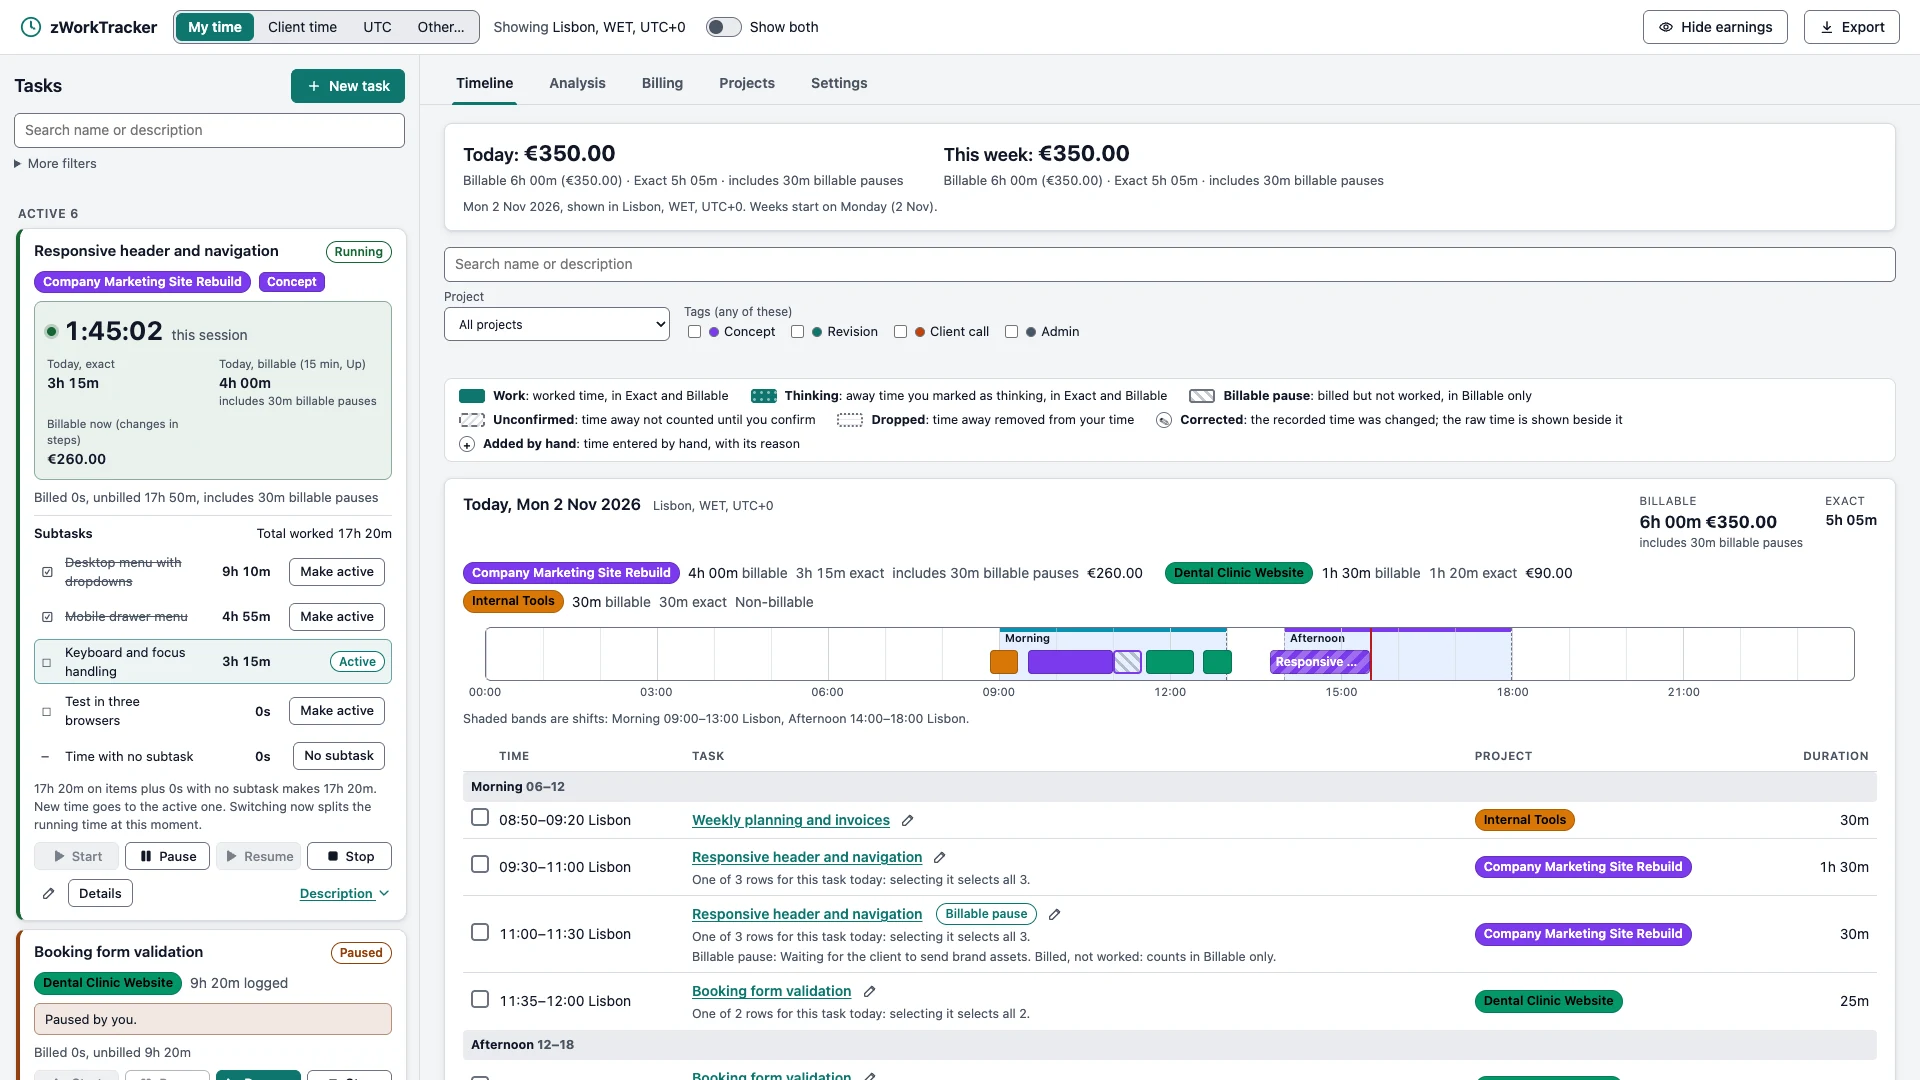
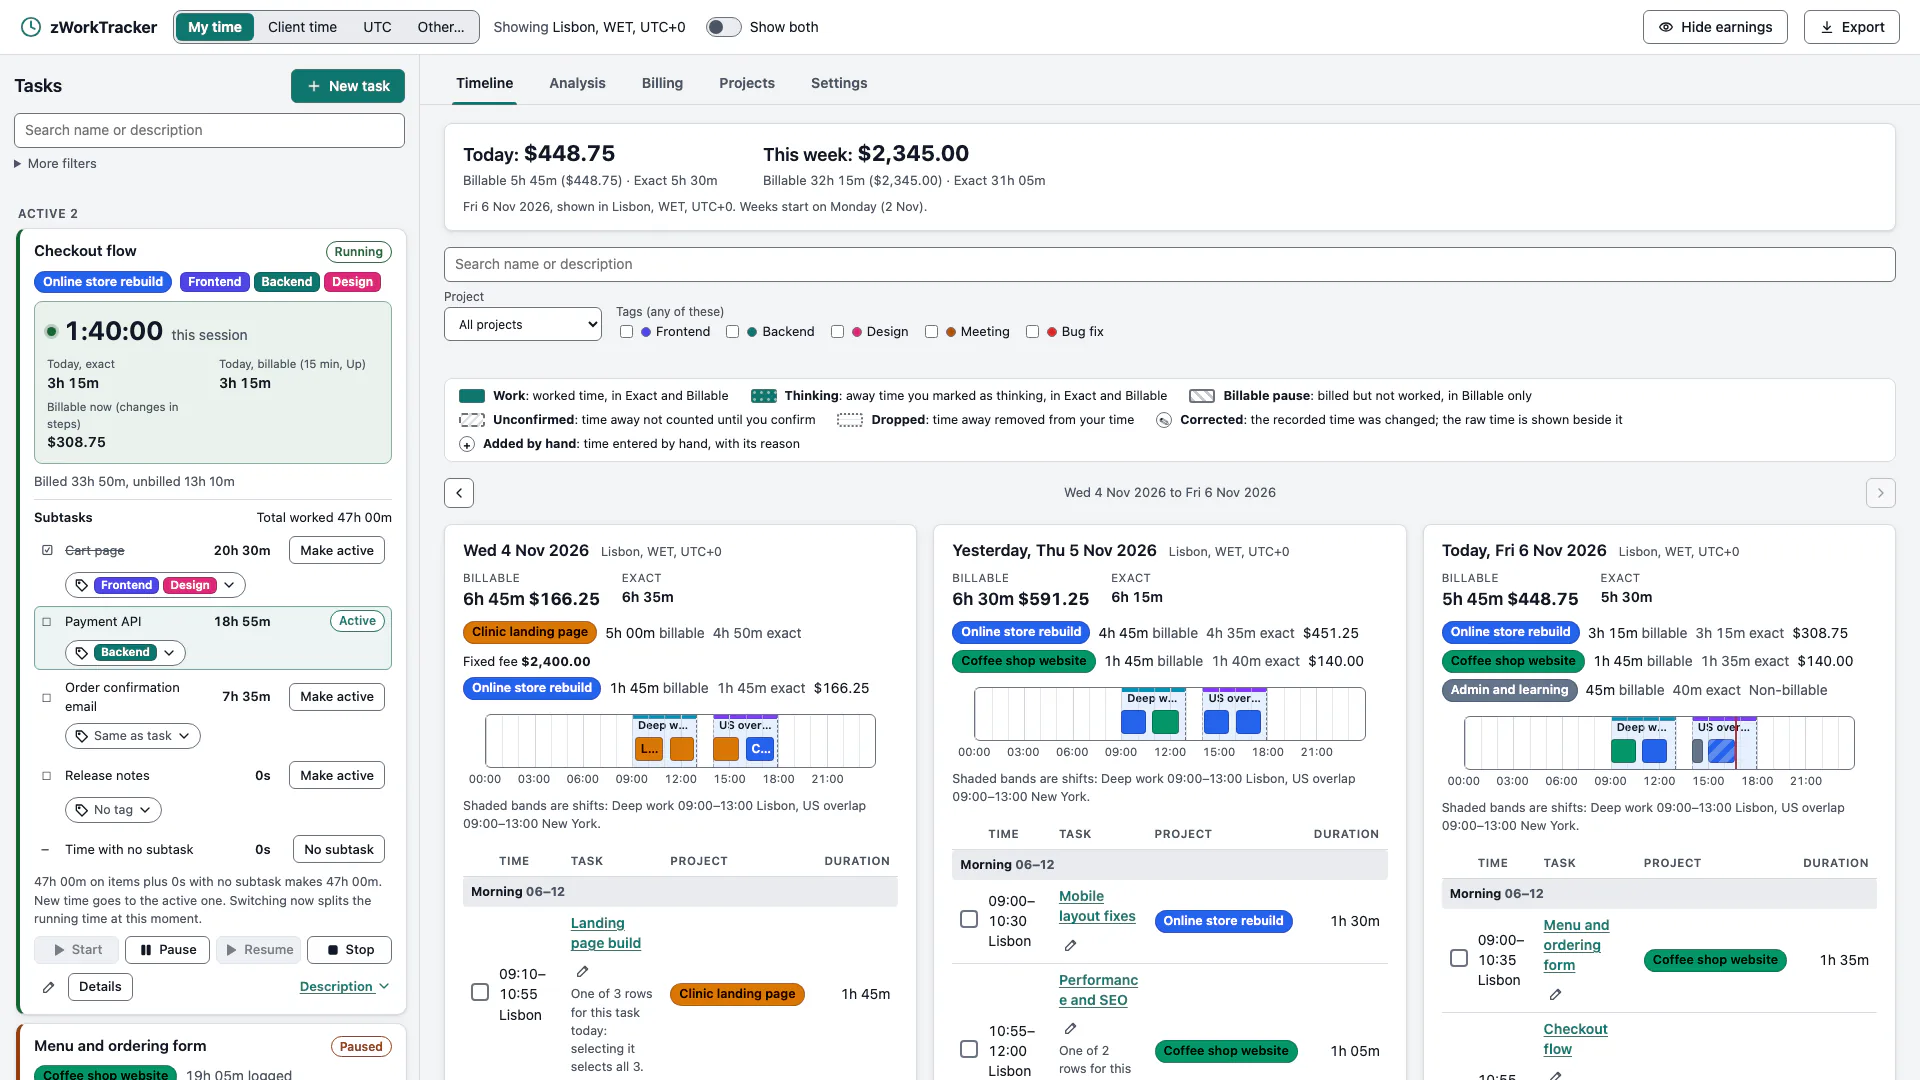
Docs: a tag taken off a task stays in the subtasks' lists, and 1.4.0 on the website
README, Tags of a subtask: the paragraph said that taking a tag off the task takes it off the subtasks' lists in the same save.
It now says what the core does since 413fb9c: a subtask only ever counts under tags its task has, so the tag drops out of its
subtasks at once and a subtask left with none of its own tags shows No tag; the lists are kept, so a tag put back on the task
returns to the subtasks that had it, and a change to the task's tags never undoes a choice made for a subtask. The guide on the
website does not state the old rule, so its text stays.

Website: the home page's "New in 1.3.2" line is now a 1.4.0 one (subtask tags, the Timeline's days side by side). The picture of
the Timeline, site/assets/timeline.webp (the home page and the guide), still showed one full-width day with no arrows and no tags
button on a subtask. It is the Store picture 01 of e2e/store-shots.spec.ts, made again with that spec at 1920 x 1080 (three days
side by side, the arrows, the tags buttons), encoded with cwebp -q 82 to 151 kB, which is about the size of the old file, at the
same dimensions. docs/images/timeline-light.png could not be the source: it is 1360 x 900, so it would have had to be stretched
or padded to fill 1920 x 1080. The descriptions of the picture on both pages say what it now shows. timeline-phone.webp (a crop
of the task card) and og-image.jpg are not changed.

diff --git a/site/index.html b/site/index.html
@@ -46,11 +46,11 @@
         <a class="btn-outline" href="https://github.com/rustcircle/z-work-tracker">View on GitHub</a>
       </div>
       <p class="req">Free, with no in-app purchases. Windows 10 version 2004 or later, and Windows 11 (x64). <a href="#notices">Read the notices before you install.</a></p>
-      <p class="req"><b>New in 1.3.2:</b> saving is about 3 to 5 times faster, and a sync with your cloud folder takes a third to half less time.</p>
+      <p class="req"><b>New in 1.4.0:</b> a subtask can count under some of its task's tags, and the Timeline shows its days side by side, with arrows to page through them.</p>
     </section>
 
     <figure class="wrap stage">
-      <a class="shot" href="assets/timeline.webp"><picture><source media="(max-width: 640px)" srcset="assets/timeline-phone.webp" width="394" height="690"><img src="assets/timeline.webp" width="1920" height="1080" fetchpriority="high" alt="The zWorkTracker Timeline tab. A running task shows its session timer with exact and billable time. Beside it, the day's summary shows earnings, a coloured timeline of work and pauses, and a table of time entries."></picture></a>
+      <a class="shot" href="assets/timeline.webp"><picture><source media="(max-width: 640px)" srcset="assets/timeline-phone.webp" width="394" height="690"><img src="assets/timeline.webp" width="1920" height="1080" fetchpriority="high" alt="The zWorkTracker Timeline tab. A running task shows its session timer with exact and billable time, and a tags button on each subtask. Beside it, three days sit side by side, each with its earnings, a coloured axis of work and pauses, and a table of time entries, and arrows page through the days."></picture></a>
       <figcaption>The Timeline tab. Screenshots show sample projects and figures.</figcaption>
     </figure>
 

diff --git a/site/howto.html b/site/howto.html
@@ -135,7 +135,7 @@
       <h3 id="timeline">The timeline</h3>
       <p>The main screen shows the period total, then the days side by side: the oldest on the left and the newest, today once it has time, on the right. It opens on the newest days, and as many days show as fit the window, at least one, so a wider window shows more. The <b>Earlier days</b> and <b>Later days</b> arrows above the days page back and forward. Every day has an axis with blocks in project colours, and its entries are grouped into Night, Morning, Afternoon and Evening. Day headers show Billable and Exact totals, and totals per project with earnings.</p>
       <figure class="doc-figure">
-        <picture><source media="(max-width: 640px)" srcset="assets/timeline-phone.webp" width="394" height="690"><img src="assets/timeline.webp" width="1920" height="1080" loading="lazy" decoding="async" alt="The Timeline tab with a running task, the day's totals, a coloured axis of work and pauses, and a table of entries."></picture>
+        <picture><source media="(max-width: 640px)" srcset="assets/timeline-phone.webp" width="394" height="690"><img src="assets/timeline.webp" width="1920" height="1080" loading="lazy" decoding="async" alt="The Timeline tab with a running task and three days side by side, each with its totals, a coloured axis of work and pauses, and a table of entries."></picture>
         <figcaption>The Timeline tab, with sample data.</figcaption>
       </figure>
       <p>Click an entry to select it, Ctrl+click to add or remove one, and Shift+click to select a run. The selection bar shows the count and the billable total, and can export just those entries. The search box filters tasks by name and description, together with project and tags.</p>

diff --git a/README.md b/README.md
@@ -328,7 +328,7 @@ A task-list item in a description can be made active. Exactly one is active at a
 
 Tags have a name and a colour, and four starter tags come with the app. A warm start copies them; a cold start requires at least one, while any tag exists. Analysis breaks time down by tag. A template stores a task's name, description, project and tags, and creates an independent draft with unticked subtasks, each on Same as task.
 
-**Tags of a subtask.** A subtask counts under its task's tags unless you choose some of them for it. On a task card, each subtask of a task that has tags has a small tags button that says **Same as task**, **No tag**, or shows the subtask's own tags. It opens a checklist: **Same as task** puts the subtask back, one button reads **Select all** or **Deselect all**, and the task's tags are checkboxes. Each change is saved at once, and ticking none means **No tag**, which is not the same as Same as task. **Select all** makes every tag the subtask's own choice, so it keeps them if the task gets another tag later, while a subtask on Same as task follows the task. A subtask only ever has some of its task's tags, so taking a tag off the task takes it off the subtasks' lists in the same save. The choice applies to all the time logged on the subtask, past and future, while time on no subtask, or on an item since removed from the description, counts under the task's tags. With the mouse, the button opens the list and a press elsewhere closes it. With the keyboard, Tab reaches the button, Enter or Space opens it and puts focus in the list, the arrow keys, Home and End move, Space or Enter ticks a tag, and Esc closes the list and gives focus back to the button. While another computer holds the lease the button is dimmed, with the reason. If the subtask's tags changed on another computer since the row showed them, nothing is saved, and the row says so and shows what is stored. A copy of a task, a task made from a template and one that continues another start every subtask on Same as task. The tags are chosen on the task card only, not in the description editor or the new-task form. Analysis, the tag filter and the Analytics sheets of an Excel export count each piece of time under the tags its subtask counts under: see [Analysis](#analysis).
+**Tags of a subtask.** A subtask counts under its task's tags unless you choose some of them for it. On a task card, each subtask of a task that has tags has a small tags button that says **Same as task**, **No tag**, or shows the subtask's own tags. It opens a checklist: **Same as task** puts the subtask back, one button reads **Select all** or **Deselect all**, and the task's tags are checkboxes. Each change is saved at once, and ticking none means **No tag**, which is not the same as Same as task. **Select all** makes every tag the subtask's own choice, so it keeps them if the task gets another tag later, while a subtask on Same as task follows the task. A subtask only ever counts under tags its task has, so a tag taken off the task drops out of its subtasks at once, and a subtask left with none of its own tags shows **No tag**. The subtasks' own lists are kept as they were, so a tag put back on the task returns to the subtasks that had it, and a change to the task's tags never undoes a choice made for a subtask. The choice applies to all the time logged on the subtask, past and future, while time on no subtask, or on an item since removed from the description, counts under the task's tags. With the mouse, the button opens the list and a press elsewhere closes it. With the keyboard, Tab reaches the button, Enter or Space opens it and puts focus in the list, the arrow keys, Home and End move, Space or Enter ticks a tag, and Esc closes the list and gives focus back to the button. While another computer holds the lease the button is dimmed, with the reason. If the subtask's tags changed on another computer since the row showed them, nothing is saved, and the row says so and shows what is stored. A copy of a task, a task made from a template and one that continues another start every subtask on Same as task. The tags are chosen on the task card only, not in the description editor or the new-task form. Analysis, the tag filter and the Analytics sheets of an Excel export count each piece of time under the tags its subtask counts under: see [Analysis](#analysis).
 
 **New tag** next to the tag picker opens Settings at the Add tag form, focused. Tags aren't created inside the task form. **Back to task** stays up until you take it, and what you'd typed in the form is still there.
 
